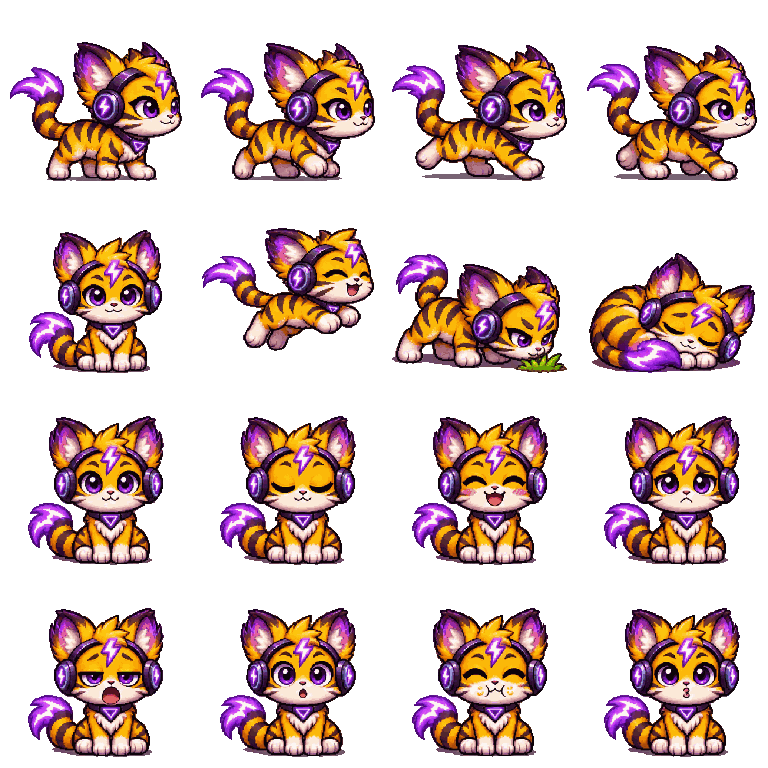
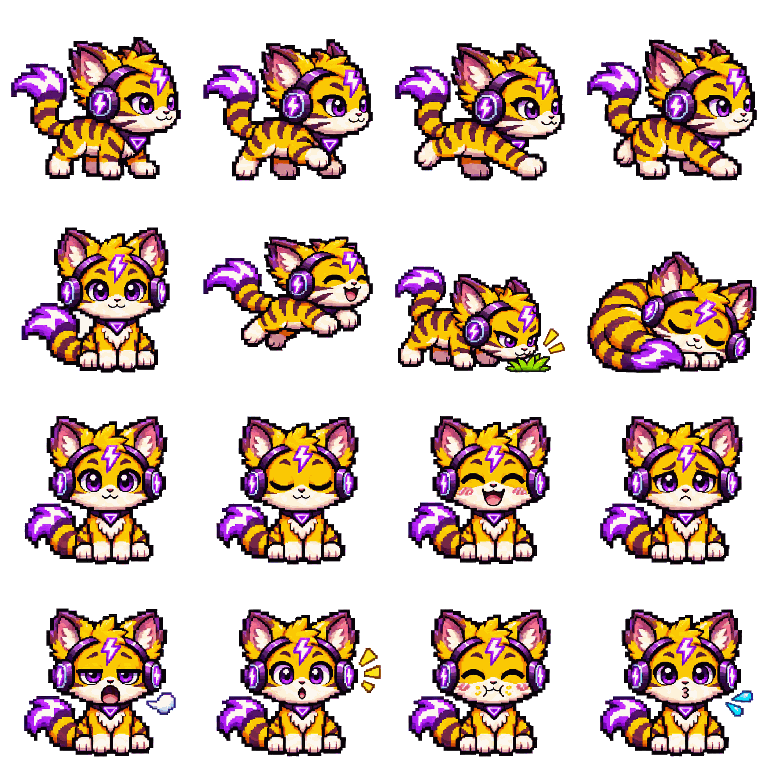
PIXUBI 0.28.5: refine Iskryk pixel-art style to match Lisyk

diff --git a/docs/ISKRYK_BABY_ART.md b/docs/ISKRYK_BABY_ART.md
@@ -1,2 +1,4 @@
 # PIXUBI 0.28.4 — Iskryk baby
 A 768×768 transparent illustrated atlas with 16 cells. Walk (0–3), seated (4), airborne (5), sniff (6), curled sleep (7), and eight front expressions (8–15). The shared world and developer sandbox choose actual complete sprite frames; no stretched limbs. Iskryk uses a discrete jump sequence during expeditions and normal gait at home. Search hiding uses the sniff pose. Both sexes use the baby artwork and existing sex/gene markers. Other growth stages and species retain their previous sprites. The sniff and sleep images are single poses; a fully independent tail/rig and additional stages remain future artwork.
+
+0.28.5 style revision: replaced the 16 cells with a hard-edged pixel-art redraw matching Lisyk's baseline, 192px cells and centered front poses; transparent alpha is binary and the airborne cell remains raised. All action indexes, saves and world logic are unchanged.
